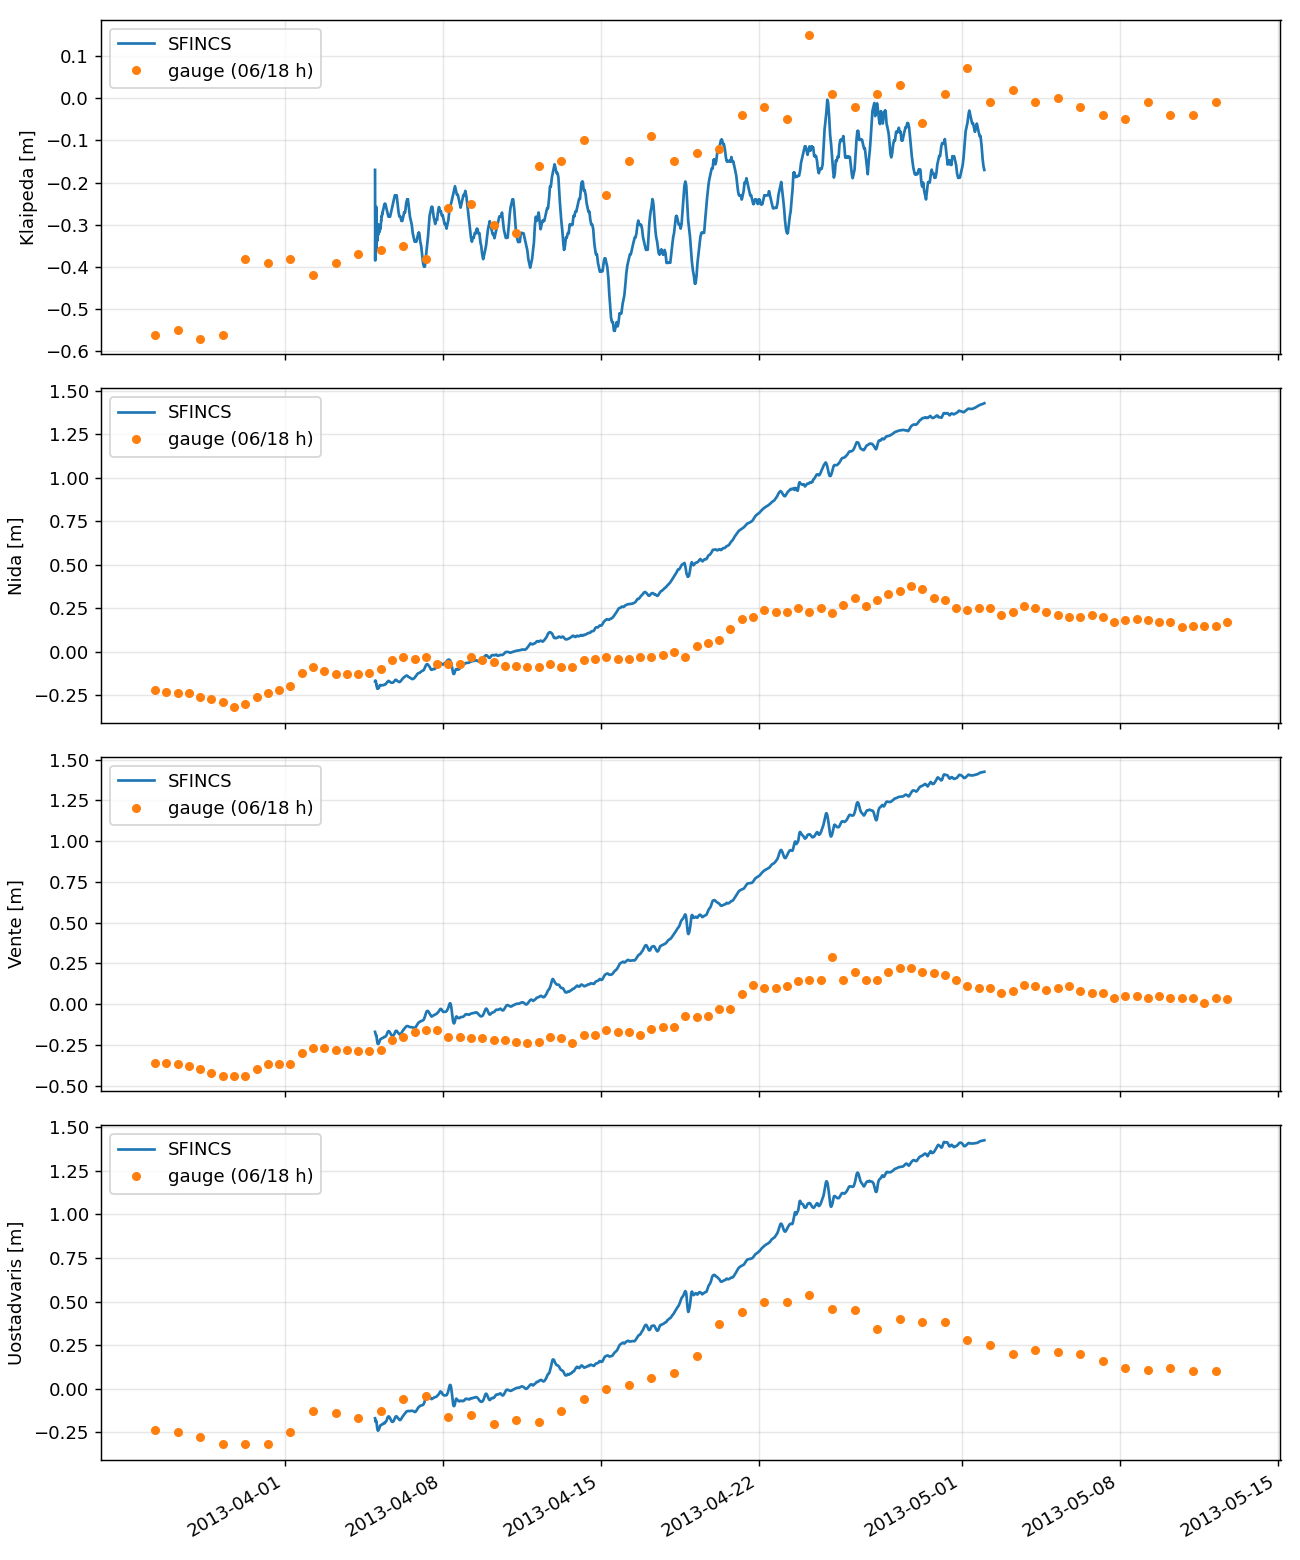
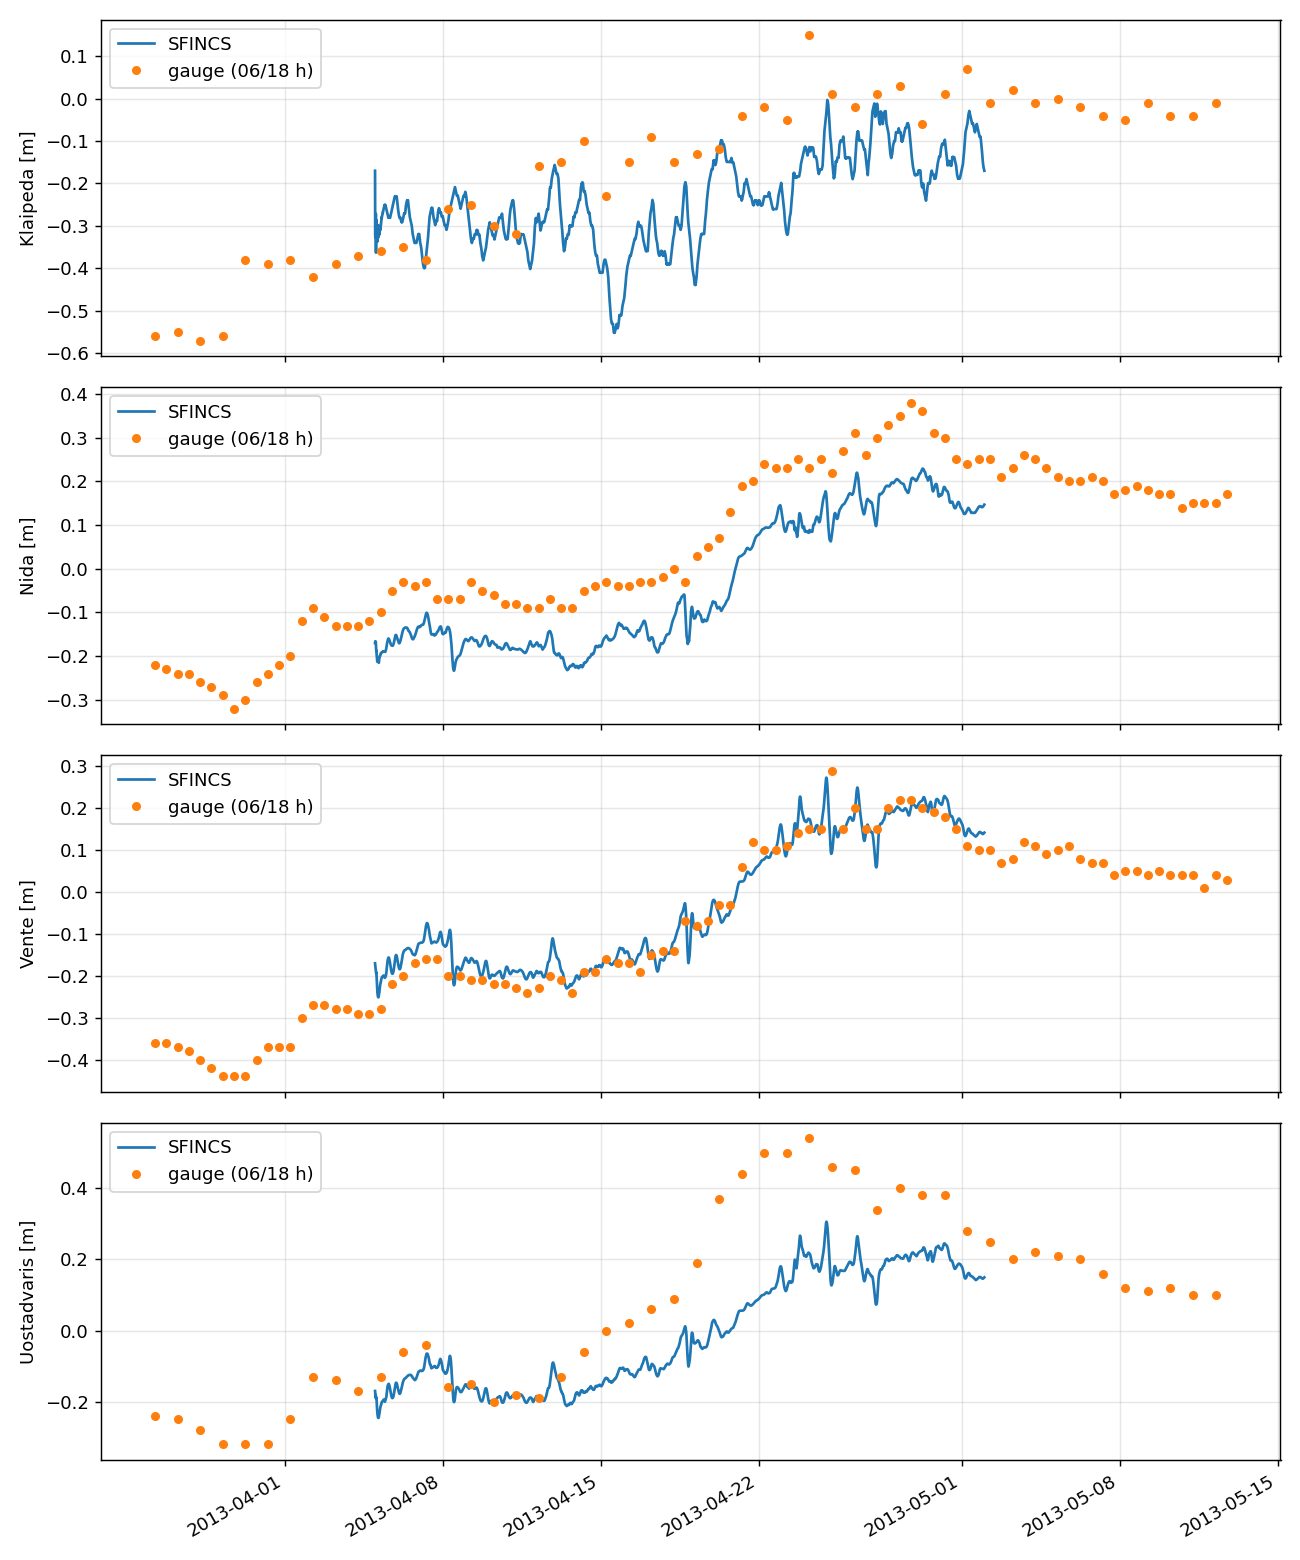
April on the corrected strait: the lagoon drains
The strait centreline fix is the one that mattered. With a continuous burned
channel the lagoon sheds ~84% of the freshet where it shed ~21% before, and the
gauge errors collapse: scoring-window RMSE falls from 0.66-0.82 m to 0.04-0.25 m
at the three lagoon stations. Vente is now essentially exact -- RMSE 0.04 m,
peak error -0.02 m, timing -6 h -- and Nida reaches r = 0.99.

A3 (delta-to-sea head) is now MET at -0.13 m, having been +0.73 m. A2b's crest
lands 18 h past the observed plateau, down from 144 h. A1 flips sign, from
+0.88 m to -0.23 m: the model now slightly over-drains rather than impounding.

Four criteria remain unmet, but the character of the failure has changed
completely. It was a structural defect -- a lagoon walled off from its own
outlet -- and it is now a calibration problem, in Manning's n, the burned bed
level, and the boundary. A4 is unchanged at RMSE 0.176 m, exactly as expected:
it scores the sea boundary's static bias correction, which this fix does not
touch.

The README is deliberately left stale in this commit; it is rewritten once,
after the Xaver variants have been re-run against the same corrected geometry.

diff --git a/curonian/results/april_2013/validation.md b/curonian/results/april_2013/validation.md
@@ -5,25 +5,25 @@ Whole period: 2013-04-05 00:00 to 2013-05-02 00:00
 | station | n | bias m | RMSE m | r | peak err m | peak dt h |
 |---|---|---|---|---|---|---|
 | Klaipeda | 27 | -0.12 | 0.15 | 0.73 | -0.15 | +19 |
-| Nida | 54 | +0.45 | 0.60 | 0.95 | +1.05 | +78 |
-| Vente | 54 | +0.58 | 0.70 | 0.95 | +1.14 | +162 |
-| Uostadvaris | 27 | +0.38 | 0.51 | 0.89 | +0.89 | +186 |
+| Nida | 54 | -0.12 | 0.13 | 0.99 | -0.15 | +12 |
+| Vente | 54 | +0.01 | 0.04 | 0.97 | -0.02 | -6 |
+| Uostadvaris | 27 | -0.16 | 0.21 | 0.92 | -0.23 | +18 |
 
 Scoring window: 2013-04-13 00:00 to 2013-05-02 00:00
 
 | station | n | bias m | RMSE m | r | peak err m | peak dt h |
 |---|---|---|---|---|---|---|
 | Klaipeda | 19 | -0.16 | 0.18 | 0.77 | -0.15 | +19 |
-| Nida | 38 | +0.64 | 0.71 | 0.95 | +1.04 | +72 |
-| Vente | 38 | +0.77 | 0.82 | 0.94 | +1.13 | +156 |
-| Uostadvaris | 19 | +0.51 | 0.60 | 0.80 | +0.88 | +144 |
+| Nida | 38 | -0.13 | 0.14 | 0.99 | -0.15 | +12 |
+| Vente | 38 | -0.00 | 0.04 | 0.96 | -0.02 | -6 |
+| Uostadvaris | 19 | -0.22 | 0.25 | 0.88 | -0.23 | +18 |
 
-Flooded land in the delta window (depth > 5 cm, ground > 0 m): **179.8 km²**
+Flooded land in the delta window (depth > 5 cm, ground > 0 m): **81.0 km²**
 
 ### Success criteria (spec section 9)
-- A1 Uostadvaris peak [2013-04-13 00:00 to 2013-05-02 00:00]: **not met** -- model peak 1.43 m vs gauge 0.54 m, err +0.88 m (threshold: peak err within +/-0.15 m)
-- A2a filling rate [first crossing of +0.20 m]: **not met** -- model 2013-04-15 13:50 vs gauge (interpolated) 2013-04-19 08:00, dt -90 h (threshold: within +/-24 h of the observed crossing)
-- A2b crest timing [2013-04-21 18:00 to 2013-04-24 18:00]: **not met** -- model peak 2013-04-30 05:30; observed plateau 22 Apr-24 Apr (threshold: model peak inside the observed plateau +/-12 h)
-- A3 delta-to-sea head [2013-04-22 00:00 to 2013-04-26 00:00]: **not met** -- model 1.20 m vs gauge 0.48 m over 5 readings, err +0.73 m (threshold: mean head within +/-0.15 m)
+- A1 Uostadvaris peak [2013-04-13 00:00 to 2013-05-02 00:00]: **not met** -- model peak 0.31 m vs gauge 0.54 m, err -0.23 m (threshold: peak err within +/-0.15 m)
+- A2a filling rate [first crossing of +0.20 m]: **not met** -- model 2013-04-23 17:20 vs gauge (interpolated) 2013-04-19 08:00, dt +105 h (threshold: within +/-24 h of the observed crossing)
+- A2b crest timing [2013-04-21 18:00 to 2013-04-24 18:00]: **not met** -- model peak 2013-04-25 00:10; observed plateau 22 Apr-24 Apr (threshold: model peak inside the observed plateau +/-12 h)
+- A3 delta-to-sea head [2013-04-22 00:00 to 2013-04-26 00:00]: **met** -- model 0.35 m vs gauge 0.48 m over 5 readings, err -0.13 m (threshold: mean head within +/-0.15 m)
 - A4 Klaipeda control [2013-04-13 00:00 to 2013-05-02 00:00]: **not met** -- RMSE 0.176 m against an observed sd of 0.089 m (threshold: RMSE <= 0.085 m (below the observed sd of 0.089 m: a flat series fails))
 - A5 Silute uplands [whole run, delta window (325000, 6105000, 360000, 6145000)]: **met** -- 0.00% of land with ground > 3 m flooded (threshold: < 1 % flooded)
